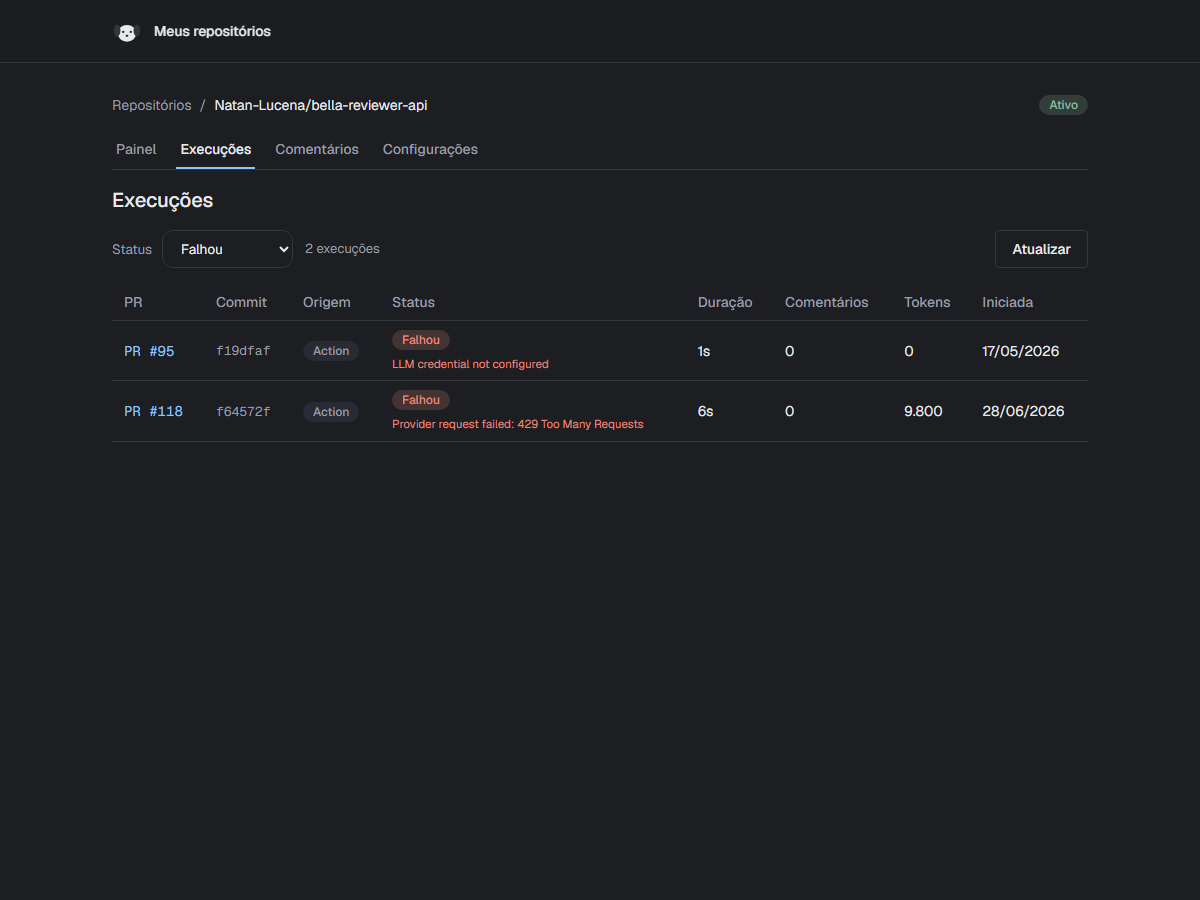
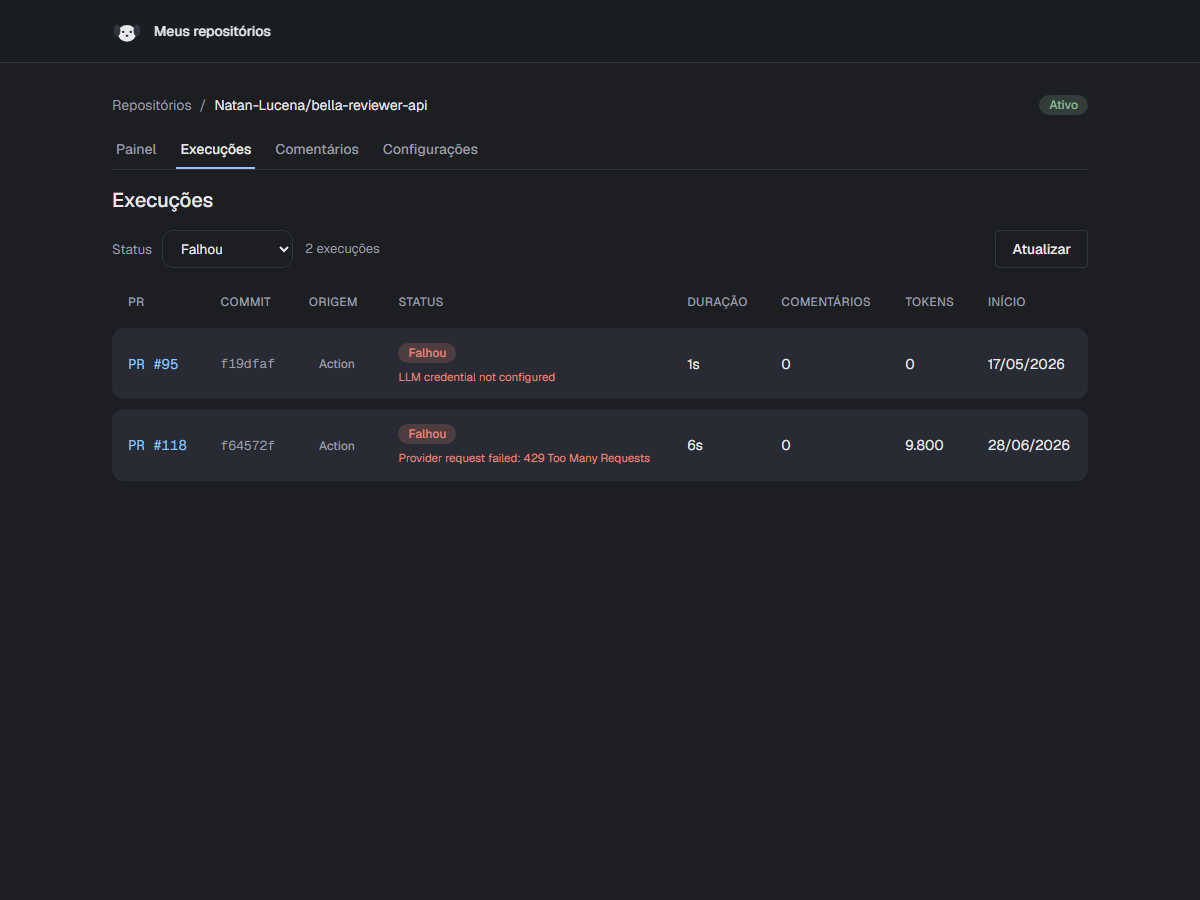
💄 fix: DataTable mais fiel ao protótipo + responde comentários da Bella
Screenshot comparison da PR #10 mostrou a Tela 8 nitidamente mais
densa/achatada que o protótipo (RunRow.dc.html mostra cada execução
como um card elevado, com respiro entre linhas e cabeçalho em
maiúsculas espaçado). DataTable continua uma <table> semântica de
verdade (nenhum grid de <div> — isso não muda), mas agora usa
border-separate + border-spacing-y para dar a cada <tr> cantos
arredondados e fundo próprio, e o <thead> ganha o tratamento
uppercase/tracking do protótipo. Também corrigido o rótulo da coluna
de data ("Iniciada" -> "Início", igual ao protótipo).

Além disso, respondidas as sugestões da Bella na review da PR #10:
- CommentRow.tsx: comentário reescrito pra deixar explícito que a
  Tela 10 ainda não existe (era ambíguo se a referência era a uma
  tela já implementada).
- format-relative-time.ts: comentário explicando por que
  formatExactDateTime usa UTC fixo (mesma escolha de format-date.ts,
  não é um esquecimento).
- As sugestões de trocar `id ?? ""`/`runId ?? ""` por `id!`/`runId!`
  foram avaliadas e mantidas como estão — este projeto evita
  asserções não-nulas quando o fallback já é seguro e mais explícito
  (mesmo padrão já usado em DashboardPage e RepoAreaLayout).

diff --git a/src/components/DataTable.tsx b/src/components/DataTable.tsx
@@ -17,18 +17,23 @@ type DataTableProps<T> = {
 // Tabela semântica de verdade — substitui o grid de <div> do protótipo (lista de
 // execuções). Uma linha clicável tem role="button"/tabIndex/onKeyDown além do
 // onClick — nunca depende só de mouse. Ver 00-component-library.md, "DataTable".
+//
+// `border-separate` + `border-spacing-y` (em vez do <tr> com border-bottom de
+// antes) é o que permite cada linha ter cantos arredondados e respiro entre
+// si, parecido com os cards empilhados de RunRow.dc.html, sem abrir mão da
+// semântica de tabela de verdade — os dois não são mutuamente exclusivos.
 export function DataTable<T>({ columns, rows, onRowClick, getRowKey }: DataTableProps<T>) {
   const clickable = Boolean(onRowClick);
 
   return (
-    <table className="w-full text-left text-sm">
+    <table className="w-full border-separate border-spacing-x-0 border-spacing-y-2.5 text-left text-sm">
       <thead>
         <tr>
           {columns.map((column) => (
             <th
               key={column.header}
               scope="col"
-              className="border-b border-surface-border px-3 py-2 font-medium text-ink-muted"
+              className="px-4 pb-2 text-xs font-medium tracking-[0.03em] text-ink-muted uppercase"
             >
               {column.header}
             </th>
@@ -52,13 +57,17 @@ export function DataTable<T>({ columns, rows, onRowClick, getRowKey }: DataTable
                   }
                 : undefined
             }
-            className={cn(
-              "border-b border-surface-border",
-              clickable && "cursor-pointer hover:bg-surface",
-            )}
+            className={cn("bg-surface", clickable && "cursor-pointer hover:brightness-110")}
           >
-            {columns.map((column) => (
-              <td key={column.header} className="px-3 py-2 text-ink">
+            {columns.map((column, index) => (
+              <td
+                key={column.header}
+                className={cn(
+                  "px-4 py-3.5 text-ink",
+                  index === 0 && "rounded-l-xl",
+                  index === columns.length - 1 && "rounded-r-xl",
+                )}
+              >
                 {column.render(row)}
               </td>
             ))}

diff --git a/src/components/CommentRow.tsx b/src/components/CommentRow.tsx
@@ -10,10 +10,12 @@ import { Card } from "./Card";
 type CommentRowProps = {
   comment: Comment;
   repoId: string;
-  // Tela 10 (histórico entre execuções) mostra o link do PR e trunca o corpo;
-  // Tela 9 (detalhe de uma execução já filtrada) omite os dois — mesma lista
-  // compacta, sem repetir informação já visível no cabeçalho da tela. Ver
-  // PRD 09, "considerar extrair um CommentRow compartilhado entre os dois PRDs".
+  // Tela 9 (detalhe de uma execução já filtrada, PRD 09 — único consumidor
+  // hoje) omite o link do PR e o truncamento, já que a execução já está
+  // implícita no contexto da tela. Tela 10 (histórico entre execuções, PRD
+  // 10 — ainda não implementada) vai precisar dos dois de volta: mesma lista
+  // compacta, sem repetir informação já visível no cabeçalho. Ver PRD 09,
+  // "considerar extrair um CommentRow compartilhado entre os dois PRDs".
   showPr?: boolean;
   clampable?: boolean;
 };

diff --git a/src/lib/format-relative-time.ts b/src/lib/format-relative-time.ts
@@ -41,8 +41,10 @@ function formatExactDate(iso: string): string {
   }).format(new Date(iso));
 }
 
-// dd/mm/aaaa HH:mm (UTC) — o tooltip com o timestamp exato ao lado do texto
-// relativo.
+// dd/mm/aaaa HH:mm — o tooltip com o timestamp exato ao lado do texto
+// relativo. UTC fixo de propósito (mesma escolha de format-date.ts), não o
+// fuso do navegador: mantém o valor determinístico entre máquinas/CI e
+// consistente com o resto do app, que também nunca mostra hora local.
 export function formatExactDateTime(iso: string): string {
   return new Intl.DateTimeFormat("pt-BR", {
     day: "2-digit",

diff --git a/src/pages/runs/RunsPage.tsx b/src/pages/runs/RunsPage.tsx
@@ -93,7 +93,7 @@ export function RunsPage() {
     { header: "Comentários", render: (run) => run.commentCount },
     { header: "Tokens", render: (run) => formatNumber(run.totalTokens) },
     {
-      header: "Iniciada",
+      header: "Início",
       render: (run) =>
         run.startedAt ? (
           <span title={formatExactDateTime(run.startedAt)}>
